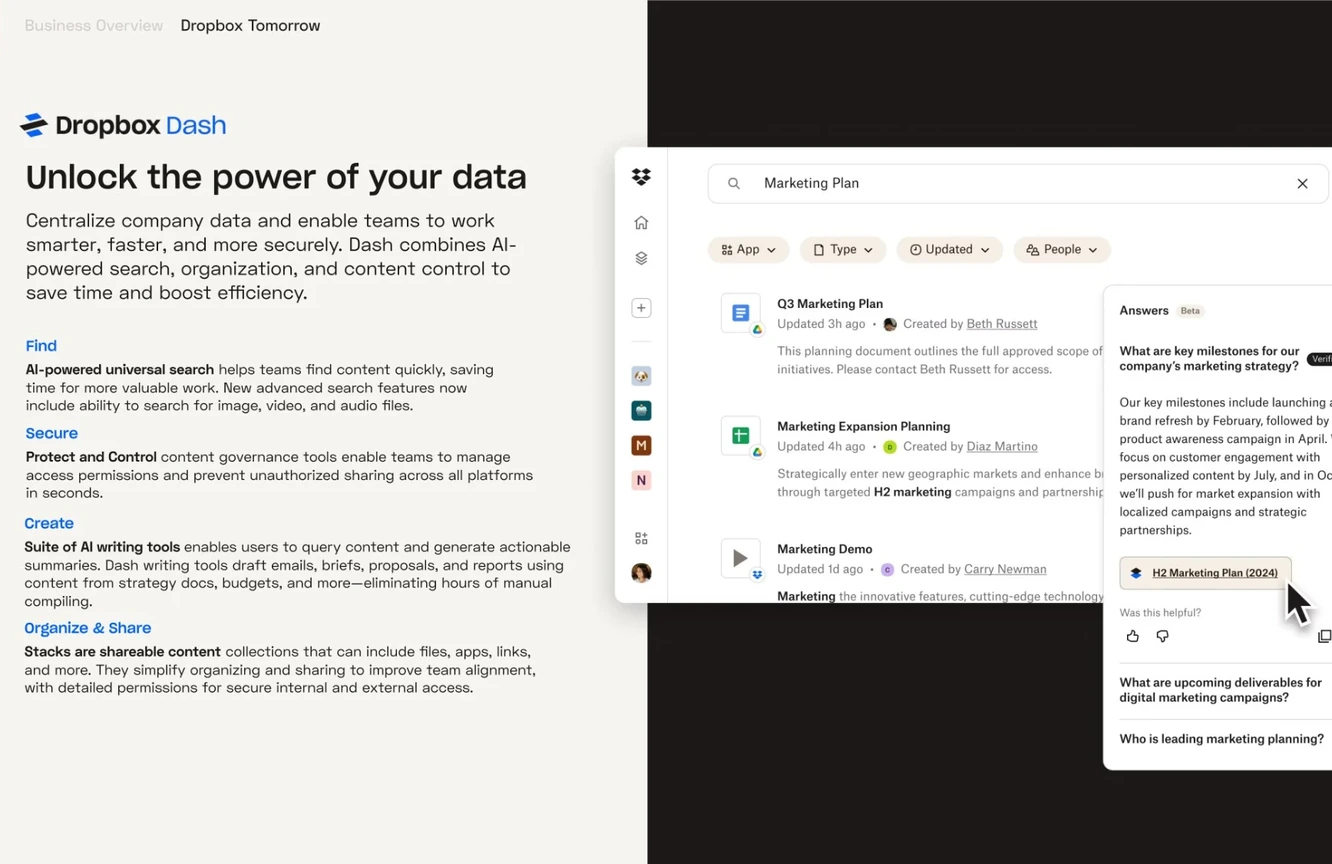
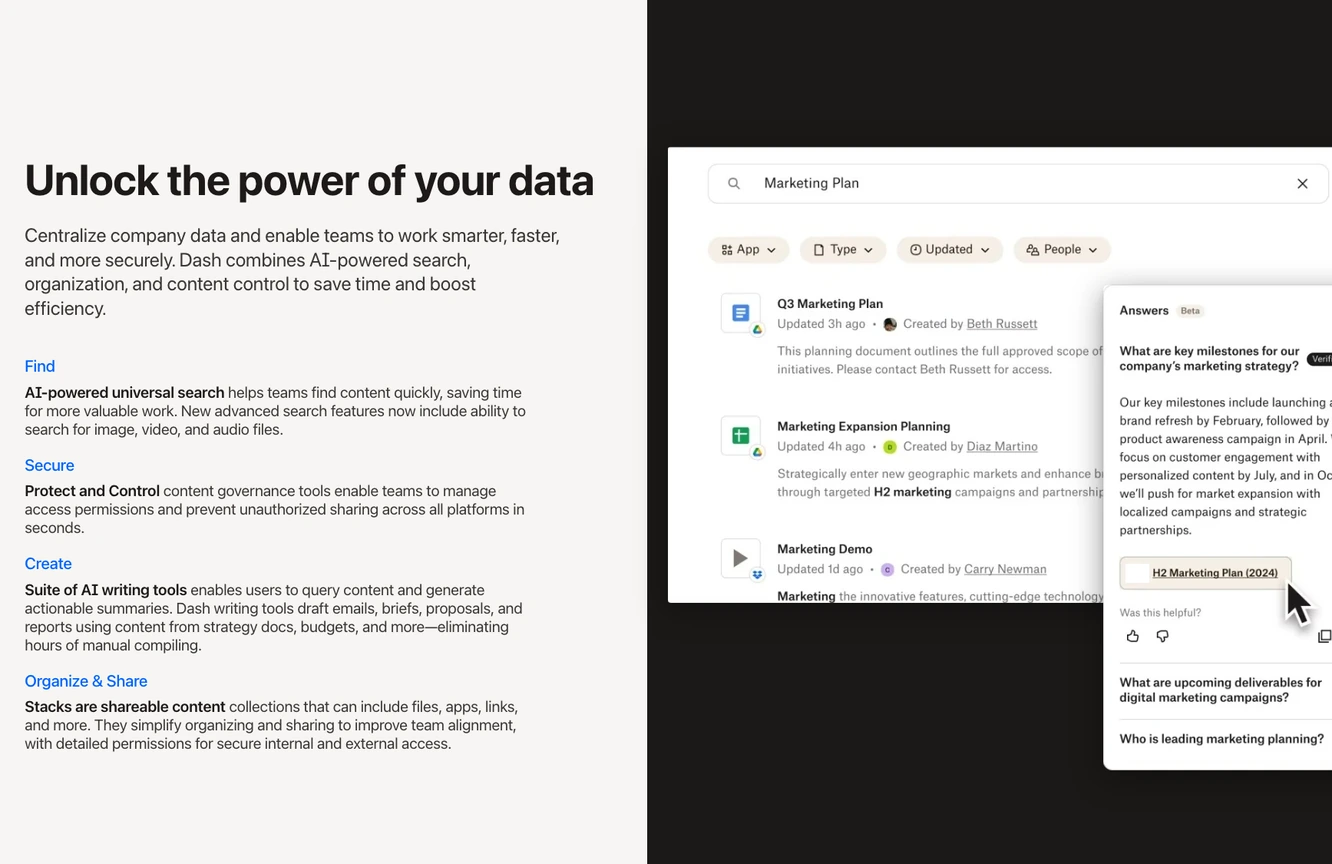
Dassh slide: text left, two swappable image slots right, no branding; homepage card is now the unbranded slide

diff --git a/src/figures/dassh/DasshSlide.jsx b/src/figures/dassh/DasshSlide.jsx
@@ -1,15 +1,10 @@
 import { useEffect, useRef, useState } from "react";
 import "./dasshSlide.css";
 
-// The Dropbox Dash slide, rebuilt as live HTML/SVG (public/figures/dassh/dassh-frame.webp is
-// the reference). Authored on a 2000 x 1125 stage and scaled as one 16:9 unit to the width of
-// its box, so text stays crisp at every size. Static; the cursor only nudges on hover.
+// The Dash slide, rebuilt in code: live text on the left, two image slots on the right (a larger
+// one with a smaller one overlapping it). No branding. Swap the two images in SLOTS. Authored
+// on a 2000 x 1125 stage and scaled as one 16:9 unit to the width of its box.
 const W = 2000, H = 1125;
-
-const I = (p) => (
-  <svg viewBox="0 0 24 24" width="1em" height="1em" fill="none" stroke="currentColor" strokeWidth="1.6" strokeLinecap="round" strokeLinejoin="round" aria-hidden>{p}</svg>
-);
-const Chev = I(<path d="M6 9l6 6 6-6" />);
 
 const SECTIONS = [
   { h: "Find", b: "AI-powered universal search", t: " helps teams find content quickly, saving time for more valuable work. New advanced search features now include ability to search for image, video, and audio files." },
@@ -18,22 +13,11 @@ const SECTIONS = [
   { h: "Organize & Share", b: "Stacks are shareable content", t: " collections that can include files, apps, links, and more. They simplify organizing and sharing to improve team alignment, with detailed permissions for secure internal and external access." },
 ];
 
-const RESULTS = [
-  { icon: "doc", title: "Q3 Marketing Plan", meta: "Updated 3h ago", by: "Beth Russett", body: "This planning document outlines the full approved scope of initiatives. Please contact Beth Russett for access." },
-  { icon: "sheet", title: "Marketing Expansion Planning", meta: "Updated 4h ago", by: "Diaz Martino", body: <>Strategically enter new geographic markets and enhance brand visibility through targeted <b>H2 marketing</b> campaigns and partnerships.</> },
-  { icon: "play", title: "Marketing Demo", meta: "Updated 1d ago", by: "Carry Newman", body: <><b>Marketing</b> the innovative features, cutting-edge technology</> },
-];
-
-function FileIcon({ kind }) {
-  return (
-    <span className="ds__file">
-      {kind === "doc" && <svg viewBox="0 0 24 24" width="30" height="30"><rect x="4" y="2" width="16" height="20" rx="3" fill="#4a85e8" /><path d="M8 8h8M8 12h8M8 16h5" stroke="#fff" strokeWidth="1.8" strokeLinecap="round" /></svg>}
-      {kind === "sheet" && <svg viewBox="0 0 24 24" width="30" height="30"><rect x="4" y="2" width="16" height="20" rx="3" fill="#1fa463" /><path d="M12 7v10M7 12h10" stroke="#fff" strokeWidth="2" strokeLinecap="round" /></svg>}
-      {kind === "play" && <svg viewBox="0 0 24 24" width="30" height="30"><path d="M8 5l11 7-11 7z" fill="#3a3635" /></svg>}
-      <i className="ds__badge" data-k={kind} />
-    </span>
-  );
-}
+// The slots hold crops of the reference slide (neutral: no logos). Replace the srcs to swap.
+const SLOTS = {
+  large: { src: "/figures/dassh/slot-large.webp", alt: "Search results for “Marketing Plan”, with filters for app, type, date and people." },
+  small: { src: "/figures/dassh/slot-small.webp", alt: "An answers panel responding to a question about marketing milestones." },
+};
 
 export default function DasshSlide() {
   const box = useRef(null);
@@ -46,17 +30,9 @@ export default function DasshSlide() {
     return () => ro.disconnect();
   }, []);
   return (
-    <div className="ds" ref={box} style={{ height: H * s }} role="img" aria-label="A Dropbox Dash product slide: Unlock the power of your data. Find, Secure, Create, Organize and Share, beside a search for Marketing Plan with an Answers panel.">
-      <div className="ds__stage" style={{ transform: `scale(${s})` }} aria-hidden>
+    <div className="ds" ref={box} style={{ height: H * s }}>
+      <div className="ds__stage" style={{ transform: `scale(${s})` }}>
         <div className="ds__left">
-          <div className="ds__top">
-            <span className="ds__logo"><svg viewBox="0 0 24 24" width="38" height="38" fill="#fff"><path d="M7 3l5 3.3L7 9.6 2 6.3zM17 3l5 3.3-5 3.3-5-3.3zM2 12.9L7 9.6l5 3.3L7 16.2zM12 12.9l5-3.3 5 3.3-5 3.3zM7 17.4l5-3.3 5 3.3L12 20.7z" /></svg></span>
-            <span className="ds__crumb"><i>Business Overview</i>Dropbox Tomorrow</span>
-          </div>
-          <div className="ds__lockup">
-            <svg viewBox="0 0 24 24" width="40" height="40" aria-hidden><path d="M12 3l9 4-9 4-9-4z" fill="#1e1919" /><path d="M3 12l9 4 9-4" fill="none" stroke="#0061fe" strokeWidth="2.6" strokeLinecap="round" /></svg>
-            <span><b>Dropbox</b> <em>Dash</em></span>
-          </div>
           <h3 className="ds__h">Unlock the power of your data</h3>
           <p className="ds__intro">Centralize company data and enable teams to work smarter, faster, and more securely. Dash combines AI-powered search, organization, and content control to save time and boost efficiency.</p>
           <div className="ds__secs">
@@ -66,54 +42,9 @@ export default function DasshSlide() {
           </div>
         </div>
         <div className="ds__right">
-          <div className="ds__card">
-            <div className="ds__rail">
-              <svg viewBox="0 0 24 24" width="30" height="30" fill="#0061fe"><path d="M7 3l5 3.3L7 9.6 2 6.3zM17 3l5 3.3-5 3.3-5-3.3zM2 12.9L7 9.6l5 3.3L7 16.2zM12 12.9l5-3.3 5 3.3-5 3.3zM7 17.4l5-3.3 5 3.3L12 20.7z" /></svg>
-              {I(<path d="M3 11l9-8 9 8v9a1 1 0 01-1 1h-5v-6H9v6H4a1 1 0 01-1-1z" />)}
-              {I(<><path d="M12 3l9 5-9 5-9-5z" /><path d="M3 13l9 5 9-5" /></>)}
-              <span className="ds__plus">+</span>
-              <hr />
-              <i className="ds__app" style={{ background: "#f2b8a0" }} />
-              <i className="ds__app" style={{ background: "#0e7c86" }} />
-              <i className="ds__app" style={{ background: "#8a3b12" }}>M</i>
-              <i className="ds__app" style={{ background: "#fde2e8", color: "#c2185b" }}>N</i>
-              <span className="ds__grid">{I(<><rect x="4" y="4" width="6" height="6" rx="1" /><rect x="14" y="4" width="6" height="6" rx="1" /><rect x="4" y="14" width="6" height="6" rx="1" /><path d="M17 14v6M14 17h6" /></>)}</span>
-              <i className="ds__me" />
-            </div>
-            <div className="ds__main">
-              <div className="ds__search">{I(<><circle cx="11" cy="11" r="6.5" /><path d="M16 16l4 4" /></>)}<span>Marketing Plan</span>{I(<path d="M6 6l12 12M18 6L6 18" />)}</div>
-              <div className="ds__chips">
-                <span>{I(<><rect x="4" y="4" width="6" height="6" rx="1" /><rect x="14" y="4" width="6" height="6" rx="1" /><rect x="4" y="14" width="6" height="6" rx="1" /><rect x="14" y="14" width="6" height="6" rx="1" /></>)}App{Chev}</span>
-                <span>{I(<path d="M6 3h8l4 4v14H6z" />)}Type{Chev}</span>
-                <span>{I(<><circle cx="12" cy="12" r="8" /><path d="M12 8v4l3 2" /></>)}Updated{Chev}</span>
-                <span>{I(<><circle cx="9" cy="9" r="3" /><path d="M3 20c0-3.5 3-5.5 6-5.5s6 2 6 5.5M16 6a3 3 0 010 6M18 15c2 .6 3 2.4 3 5" /></>)}People{Chev}</span>
-              </div>
-              <div className="ds__results">
-                {RESULTS.map((r) => (
-                  <div key={r.title} className="ds__res">
-                    <FileIcon kind={r.icon} />
-                    <div>
-                      <h5>{r.title}</h5>
-                      <div className="ds__meta">{r.meta}<i /> <span className="ds__av" />Created by <u>{r.by}</u></div>
-                      <p>{r.body}</p>
-                    </div>
-                  </div>
-                ))}
-              </div>
-            </div>
-          </div>
-          <div className="ds__ans">
-            <div className="ds__ans-h">Answers <em>Beta</em></div>
-            <div className="ds__q"><span>What are key milestones for our company’s marketing strategy?</span><em>Verified</em>{I(<path d="M6 15l6-6 6 6" />)}</div>
-            <p className="ds__a">Our key milestones include launching a brand refresh by February, followed by a product awareness campaign in April. We’ll focus on customer engagement with personalized content by July, and in October, we’ll push for market expansion with localized campaigns and strategic partnerships.</p>
-            <span className="ds__src"><svg viewBox="0 0 24 24" width="20" height="20" fill="#0061fe"><path d="M7 3l5 3.3L7 9.6 2 6.3zM17 3l5 3.3-5 3.3-5-3.3zM7 17.4l5-3.3 5 3.3L12 20.7z" /></svg><u>H2 Marketing Plan (2024)</u></span>
-            <div className="ds__help"><span>Was this helpful?</span><div>{I(<path d="M7 11v9H4v-9zM7 11l4-8c1.5 0 2.5 1.2 2 2.8L12.5 9H19a2 2 0 011.9 2.6l-2 7A2 2 0 0117 20H7" />)}{I(<path d="M7 13V4H4v9zM7 13l4 8c1.5 0 2.5-1.2 2-2.8L12.5 15H19a2 2 0 001.9-2.6l-2-7A2 2 0 0017 4H7" />)}<b />{I(<><rect x="8" y="8" width="12" height="12" rx="2" /><path d="M16 8V5a1 1 0 00-1-1H5a1 1 0 00-1 1v10a1 1 0 001 1h3" /></>)}{I(<><circle cx="12" cy="12" r="9" /><path d="M12 11v5M12 8v.01" /></>)}</div></div>
-            <div className="ds__q ds__q--c"><span>What are upcoming deliverables for digital marketing campaigns?</span>{Chev}</div>
-            <div className="ds__q ds__q--c"><span>Who is leading marketing planning?</span>{Chev}</div>
-            <svg className="ds__cursor" viewBox="0 0 24 34" width="52" height="74"><path d="M2 1v26l7-6.5 4.8 11 4-1.8-4.7-10.7H22z" fill="#111" stroke="#fff" strokeWidth="1.6" strokeLinejoin="round" /></svg>
-          </div>
+          <img className="ds__slot ds__slot--large" src={SLOTS.large.src} alt={SLOTS.large.alt} draggable="false" />
+          <img className="ds__slot ds__slot--small" src={SLOTS.small.src} alt={SLOTS.small.alt} draggable="false" />
         </div>
-        <span className="ds__num">24</span>
       </div>
     </div>
   );

diff --git a/src/figures/dassh/dasshSlide.css b/src/figures/dassh/dasshSlide.css
@@ -1,48 +1,13 @@
 /* Dash slide figure: a 2000 x 1125 stage scaled as one unit (DasshSlide.jsx). */
-.ds { position: relative; width: 100%; overflow: hidden; border-radius: 12px; background: #f6f5f2; --ds-ink: #1e1919; --ds-blue: #0061fe; font-family: system-ui, -apple-system, "Segoe UI", sans-serif; }
-.ds__stage { position: absolute; top: 0; left: 0; width: 2000px; height: 1125px; transform-origin: 0 0; color: var(--ds-ink); background: #f6f5f2; }
-.ds svg { display: block; flex: none; }
-.ds__left { position: absolute; inset: 0 auto 0 0; width: 913px; padding: 0 0 0 102px; }
-.ds__top { position: absolute; top: 0; left: 0; display: flex; align-items: center; height: 62px; font-size: 22px; }
-.ds__logo { width: 62px; height: 62px; background: var(--ds-blue); display: grid; place-items: center; margin-right: 40px; }
-.ds__crumb { display: flex; gap: 22px; } .ds__crumb i { font-style: normal; color: #b4afa8; }
-.ds__lockup { position: absolute; top: 140px; left: 94px; display: flex; align-items: center; gap: 4px; font-size: 38px; letter-spacing: -.02em; }
-.ds__lockup b { font-weight: 600; } .ds__lockup em { font-style: normal; color: var(--ds-blue); font-weight: 400; }
-.ds__h { position: absolute; top: 202px; left: 102px; margin: 0; width: 800px; font-size: 48px; line-height: 1; font-weight: 700; letter-spacing: -.015em; }
-.ds__intro { position: absolute; top: 270px; left: 102px; margin: 0; width: 700px; font-size: 25px; line-height: 31.5px; color: #3a3635; }
-.ds__secs { position: absolute; top: 436px; left: 102px; width: 640px; }
-.ds__sec { margin-bottom: 14px; } .ds__sec h4 { margin: 0 0 6px; font-size: 21px; font-weight: 500; color: var(--ds-blue); }
-.ds__sec p { margin: 0; font-size: 20px; line-height: 24px; color: #3a3635; } .ds__sec b { color: var(--ds-ink); font-weight: 600; }
+.ds { position: relative; width: 100%; overflow: hidden; border-radius: 12px; background: #f6f5f2; font-family: system-ui, -apple-system, "Segoe UI", sans-serif; }
+.ds__stage { position: absolute; top: 0; left: 0; width: 2000px; height: 1125px; transform-origin: 0 0; color: #1e1919; background: #f6f5f2; }
+.ds__left { position: absolute; inset: 0 auto 0 0; width: 913px; }
+.ds__h { position: absolute; top: 205px; left: 102px; margin: 0; width: 800px; font-size: 56px; line-height: 1; font-weight: 700; letter-spacing: -.015em; }
+.ds__intro { position: absolute; top: 290px; left: 102px; margin: 0; width: 700px; font-size: 25px; line-height: 31.5px; color: #3a3635; }
+.ds__secs { position: absolute; top: 460px; left: 102px; width: 660px; }
+.ds__sec { margin-bottom: 18px; } .ds__sec h4 { margin: 0 0 6px; font-size: 21px; font-weight: 500; color: #0061fe; }
+.ds__sec p { margin: 0; font-size: 20px; line-height: 24px; color: #3a3635; } .ds__sec b { color: #1e1919; font-weight: 600; }
 .ds__right { position: absolute; inset: 0 0 0 913px; background: #1b1918; }
-.ds__card { position: absolute; left: -43px; top: 191px; width: 982px; height: 594px; background: #fff; box-shadow: 0 8px 40px rgba(0,0,0,.35); display: flex; overflow: hidden; border-radius: 4px 0 0 4px; }
-.ds__rail { width: 70px; border-right: 1px solid #e8e5e0; display: flex; flex-direction: column; align-items: center; gap: 18px; padding-top: 24px; color: #5b5651; font-size: 28px; }
-.ds__rail > svg:not(:first-child) { width: 26px; height: 26px; } .ds__plus { width: 26px; height: 26px; border: 1px solid #bbb6af; border-radius: 6px; display: grid; place-items: center; font-size: 20px; margin-top: 10px; }
-.ds__rail hr { width: 26px; border: 0; border-top: 1px solid #e8e5e0; margin: 6px 0; }
-.ds__app { width: 26px; height: 26px; border-radius: 6px; display: grid; place-items: center; color: #fff; font: 600 17px system-ui; }
-.ds__grid { margin-top: 18px; } .ds__grid svg { width: 24px; height: 24px; } .ds__me { width: 28px; height: 28px; border-radius: 50%; background: #6b4a3a; margin-top: 14px; }
-.ds__main { flex: 1; position: relative; padding: 22px 0 0 52px; }
-.ds__search { height: 52px; width: 810px; border: 1px solid #dcd8d2; border-radius: 6px; display: flex; align-items: center; padding: 0 22px; gap: 24px; font-size: 19px; }
-.ds__search svg { width: 20px; height: 20px; color: #5b5651; } .ds__search span { flex: 1; } .ds__search svg:last-child { width: 22px; height: 22px; color: #1e1919; margin-right: 8px; }
-.ds__chips { display: flex; gap: 14px; margin-top: 44px; }
-.ds__chips span { height: 33px; padding: 0 14px; background: #f1efec; border-radius: 17px; display: flex; align-items: center; gap: 8px; font-size: 16px; }
-.ds__chips svg { width: 16px; height: 16px; }
-.ds__results { margin-top: 36px; } .ds__res { display: flex; gap: 26px; margin-bottom: 44px; height: 116px; }
-.ds__file { position: relative; width: 52px; height: 52px; border: 1px solid #e3dfd9; border-radius: 8px; display: grid; place-items: center; flex: none; margin-top: 4px; }
-.ds__file svg { width: 26px; height: 26px; } .ds__badge { position: absolute; right: -6px; bottom: -6px; width: 18px; height: 18px; border-radius: 50%; background: #fff; border: 2px solid #fff; box-shadow: inset 0 0 0 5px #3a7be8; }
-.ds__badge[data-k="doc"], .ds__badge[data-k="sheet"] { box-shadow: inset 0 0 0 5px #3aa66a; }
-.ds__res h5 { margin: 0; font-size: 17px; font-weight: 600; } .ds__res p { margin: 10px 0 0; font-size: 16px; line-height: 24px; color: #8a857f; width: 420px; max-height: 48px; overflow: hidden; } .ds__res p b { color: var(--ds-ink); font-weight: 600; }
-.ds__meta { margin-top: 6px; font-size: 16px; color: #8a857f; display: flex; align-items: center; } .ds__meta i { width: 4px; height: 4px; border-radius: 50%; background: #8a857f; margin: 0 12px; }
-.ds__meta u { text-decoration: underline; margin-left: 4px; } .ds__av { width: 18px; height: 18px; border-radius: 50%; background: #b9a07a; margin-right: 8px; }
-.ds__ans { position: absolute; left: 595px; top: 371px; width: 366px; height: 631px; background: #fff; border-radius: 10px; box-shadow: 0 10px 40px rgba(0,0,0,.4); padding: 24px 21px 0; font-size: 16px; }
-.ds__ans-h { font-weight: 600; display: flex; gap: 12px; align-items: center; } .ds__ans-h em { font: 12px system-ui; background: #eceae6; color: #6b665f; padding: 2px 7px; border-radius: 4px; }
-.ds__q { display: flex; align-items: flex-start; gap: 8px; margin-top: 34px; font-weight: 600; line-height: 20px; } .ds__q span { flex: 1; } .ds__q em { font: 600 11px system-ui; background: #1e1919; color: #fff; border-radius: 10px; padding: 3px 8px; margin-top: 2px; }
-.ds__q svg { width: 16px; height: 16px; margin-top: 2px; }
-.ds__q--c { border-top: 1px solid #e8e5e0; padding-top: 22px; margin-top: 22px; }
-.ds__a { margin: 34px 0 0; line-height: 24px; font-size: 15.5px; }
-.ds__src { display: inline-flex; align-items: center; gap: 12px; margin-top: 30px; border: 1px solid #dcd8d2; border-radius: 4px; padding: 10px 14px; font-size: 14px; }
-.ds__help { margin-top: 28px; font-size: 14px; color: #8a857f; display: flex; flex-direction: column; gap: 14px; }
-.ds__help div { display: flex; gap: 16px; align-items: center; color: #1e1919; } .ds__help svg { width: 20px; height: 20px; } .ds__help b { flex: 1; }
-.ds__cursor { position: absolute; left: 220px; top: 392px; transition: transform .6s cubic-bezier(.2,.8,.2,1); pointer-events: none; }
-.ds:hover .ds__cursor { transform: translate(-26px, -40px); }
-.ds__num { position: absolute; right: 38px; bottom: 28px; font-size: 28px; color: #8a857f; }
-@media (prefers-reduced-motion: reduce) { .ds__cursor { transition: none; } }
+.ds__slot { position: absolute; display: block; object-fit: cover; background: #fff; }
+.ds__slot--large { left: 27px; top: 191px; width: 913px; height: 594px; border-radius: 6px 0 0 6px; box-shadow: 0 8px 40px rgba(0,0,0,.35); }
+.ds__slot--small { left: 594px; top: 371px; width: 366px; height: 632px; border-radius: 10px; box-shadow: 0 10px 40px rgba(0,0,0,.4); }
